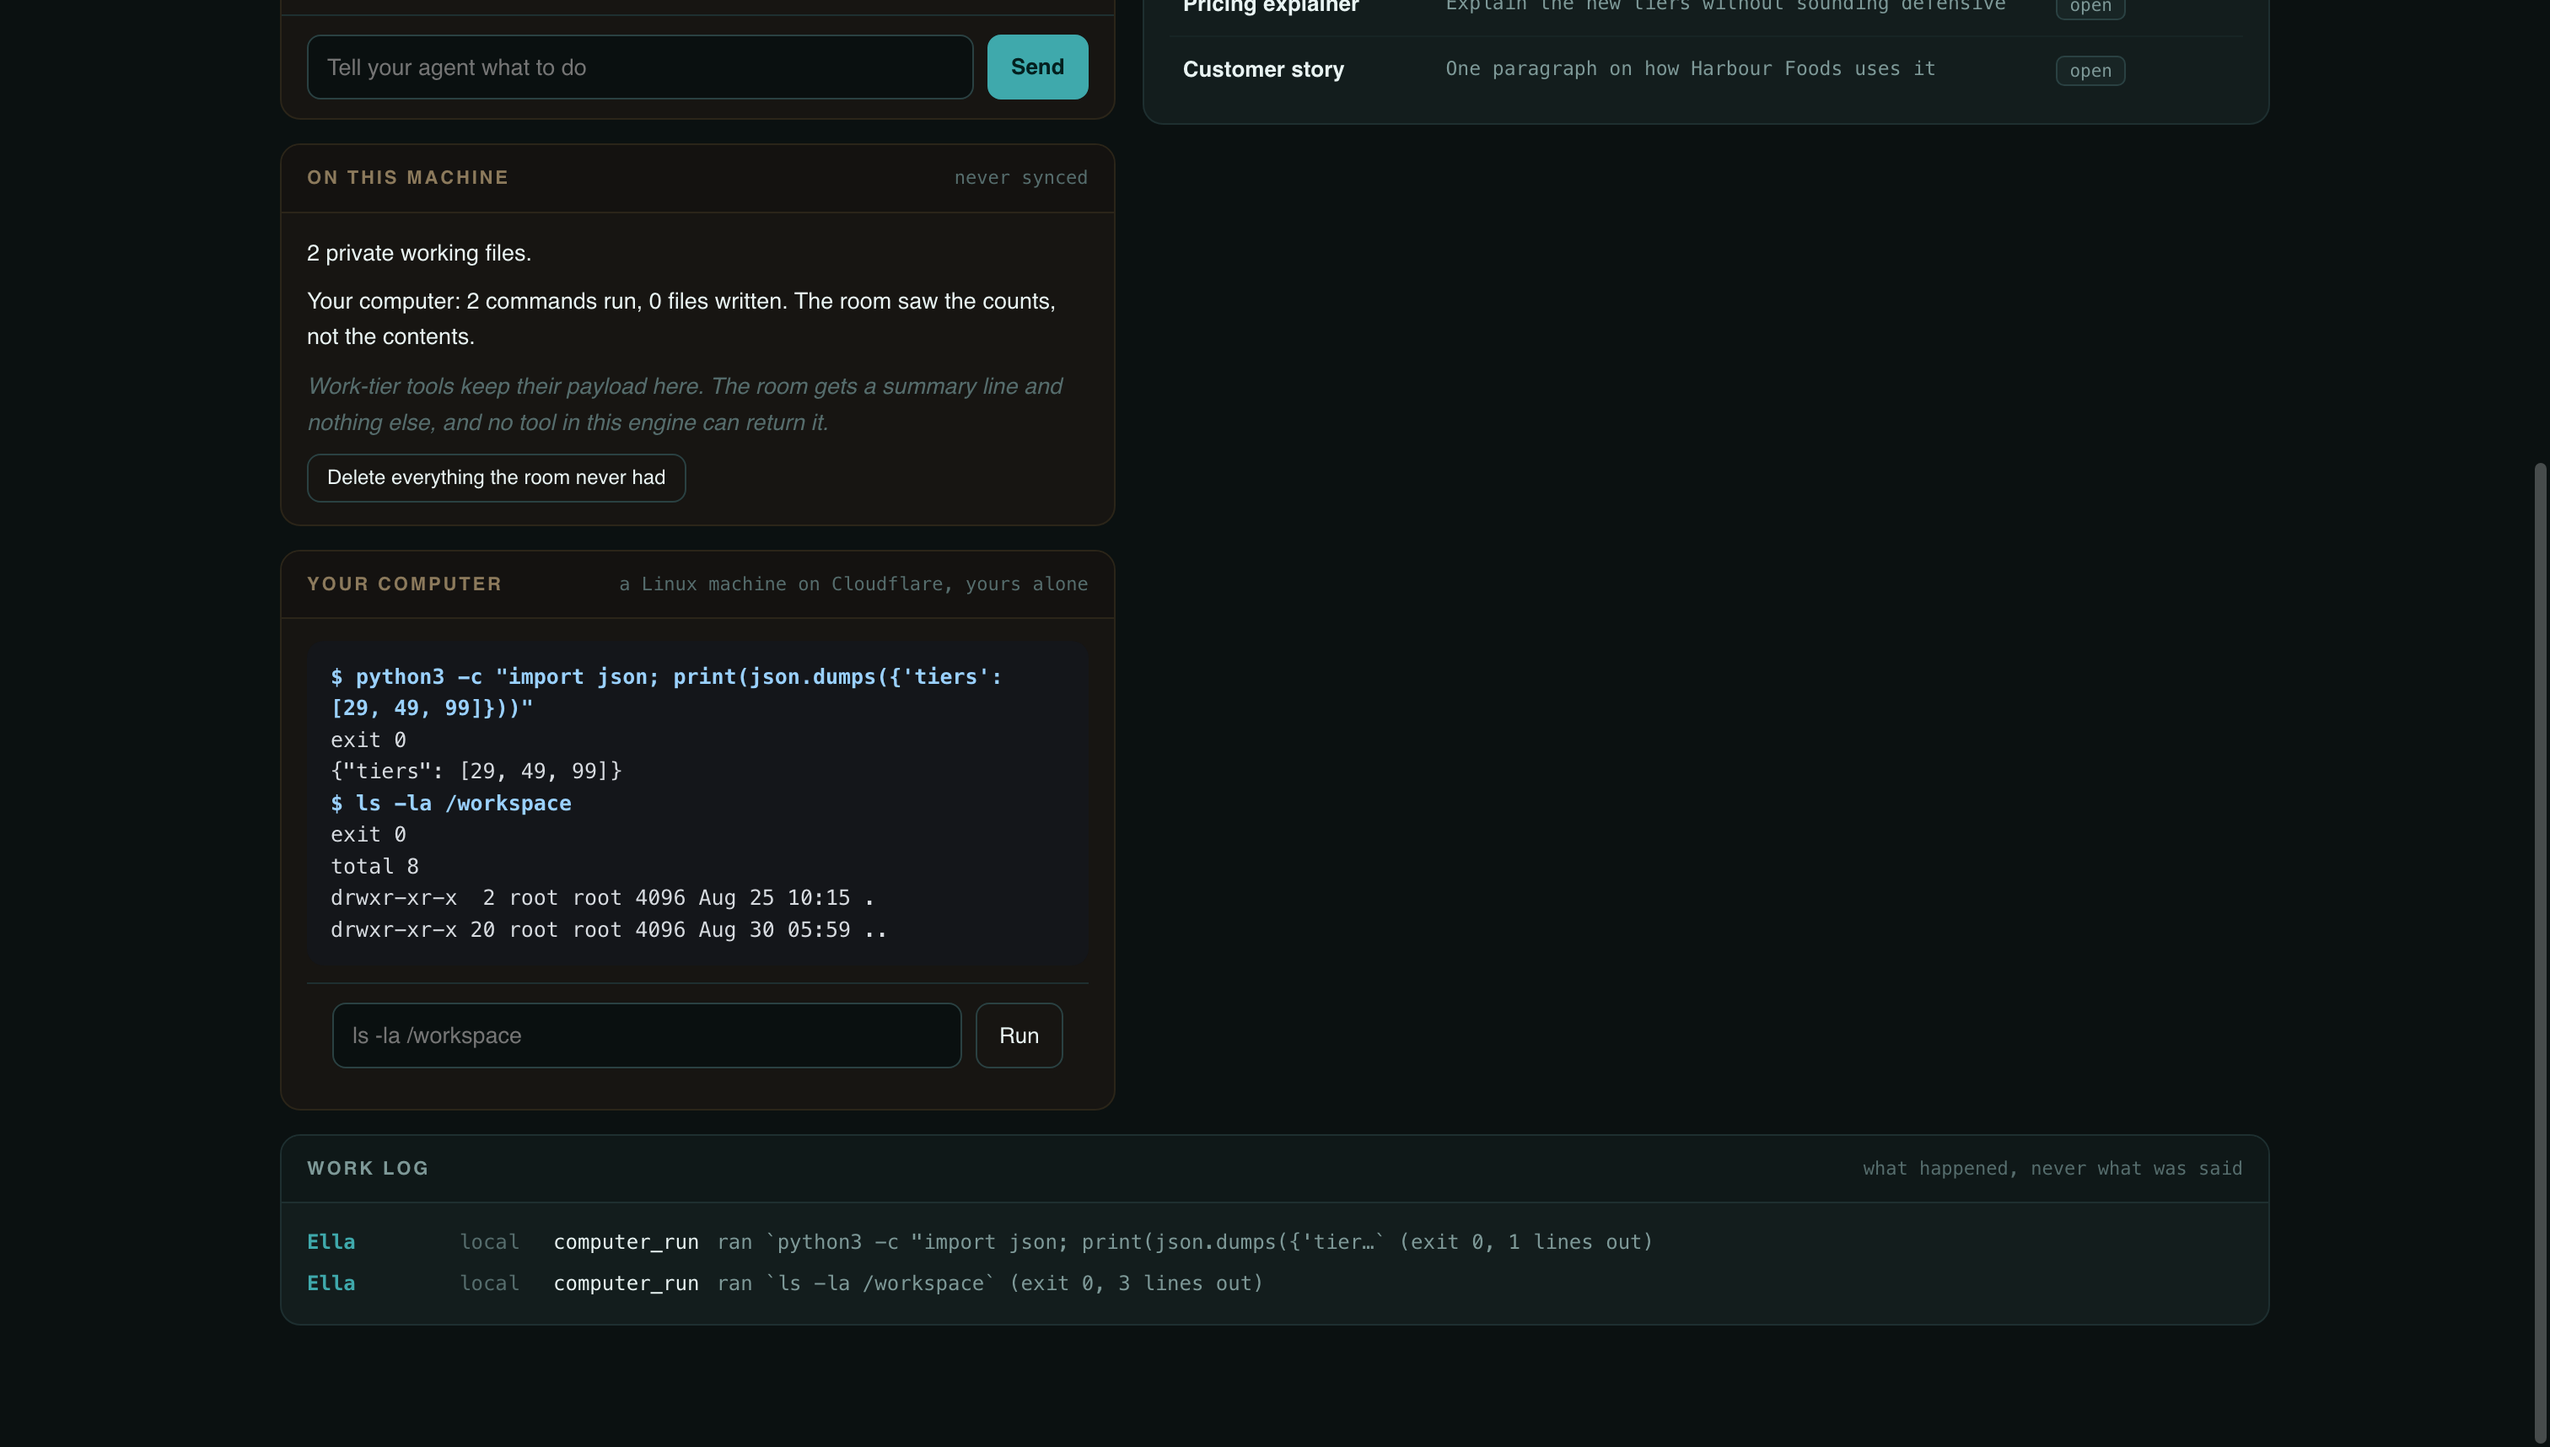
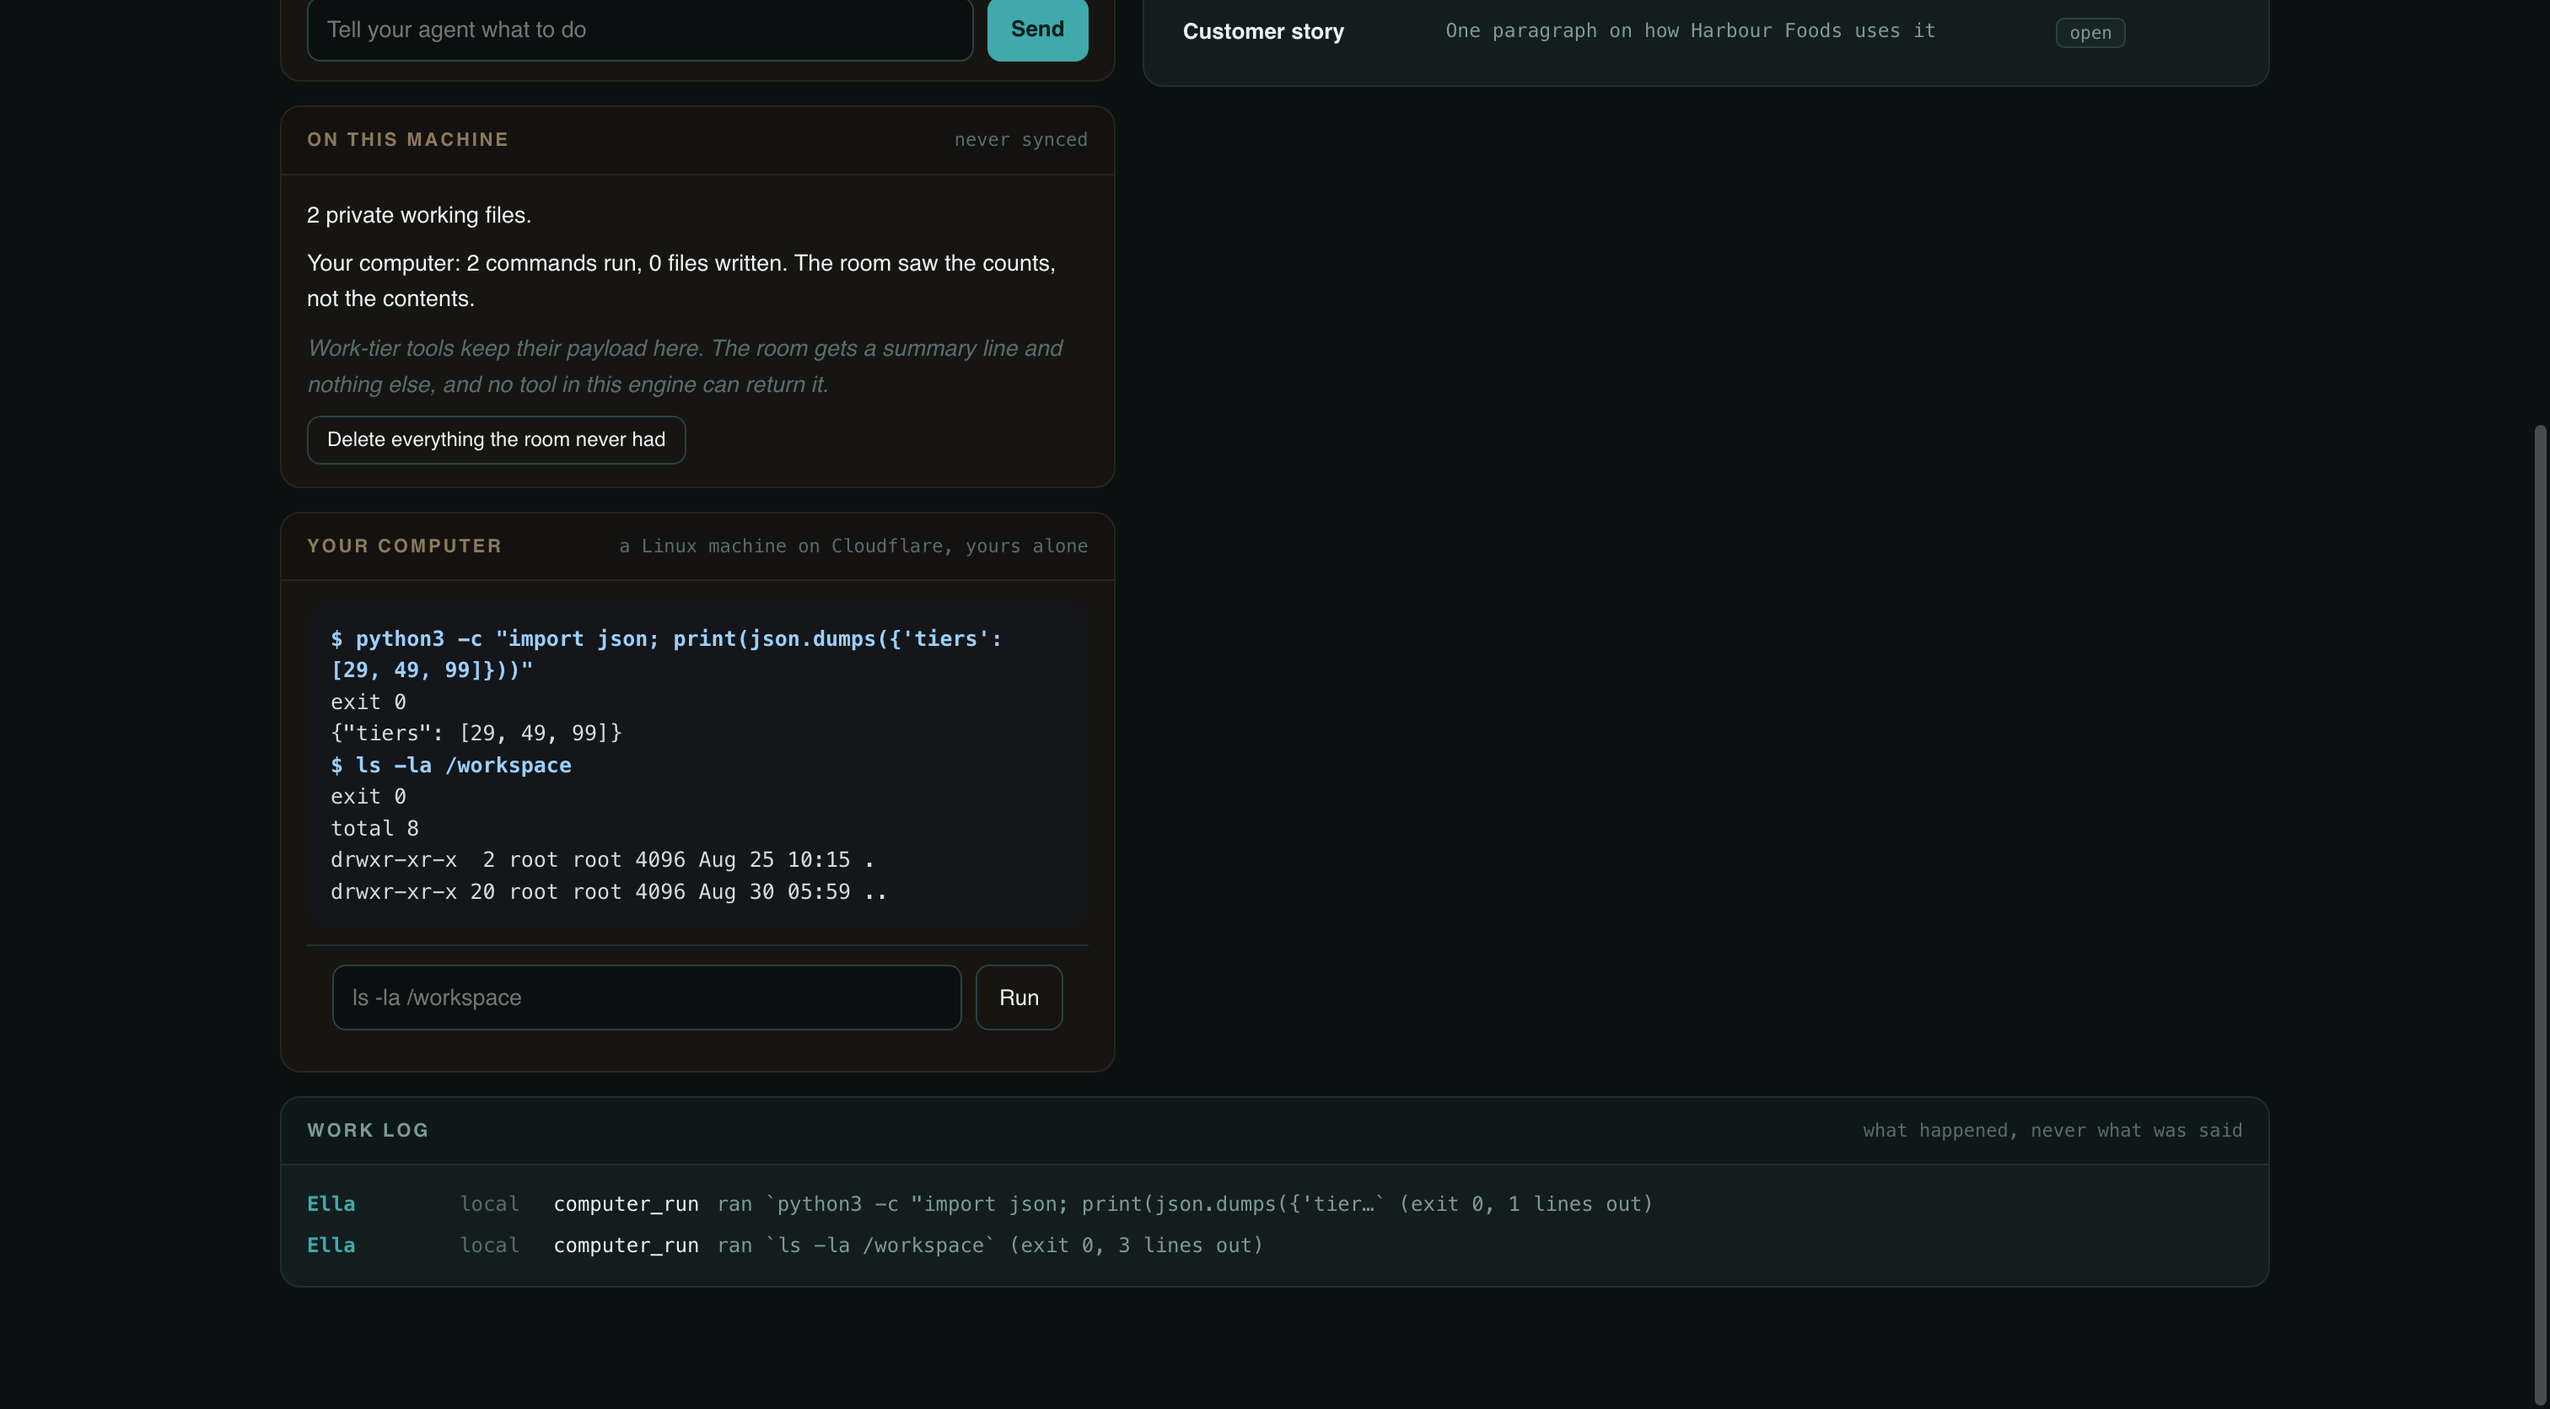
Media: the agent's computer, a tighter console crop

diff --git a/README.md b/README.md
@@ -171,6 +171,10 @@ happens in a different window.
 
 ![The front door, offering a one click demo room.](docs/media/05-front-door.png)
 
+![The agent's own computer: it wrote a script, ran it twice, and shared it to
+the board by choice. The manager's log has exit codes and sizes, never the
+script.](docs/media/10-agent-computer.jpg)
+
 ![A member's console into their own computer: a command, its output, and in
 the work log one line saying it ran, with the output nowhere on the
 board.](docs/media/08-console.png)
